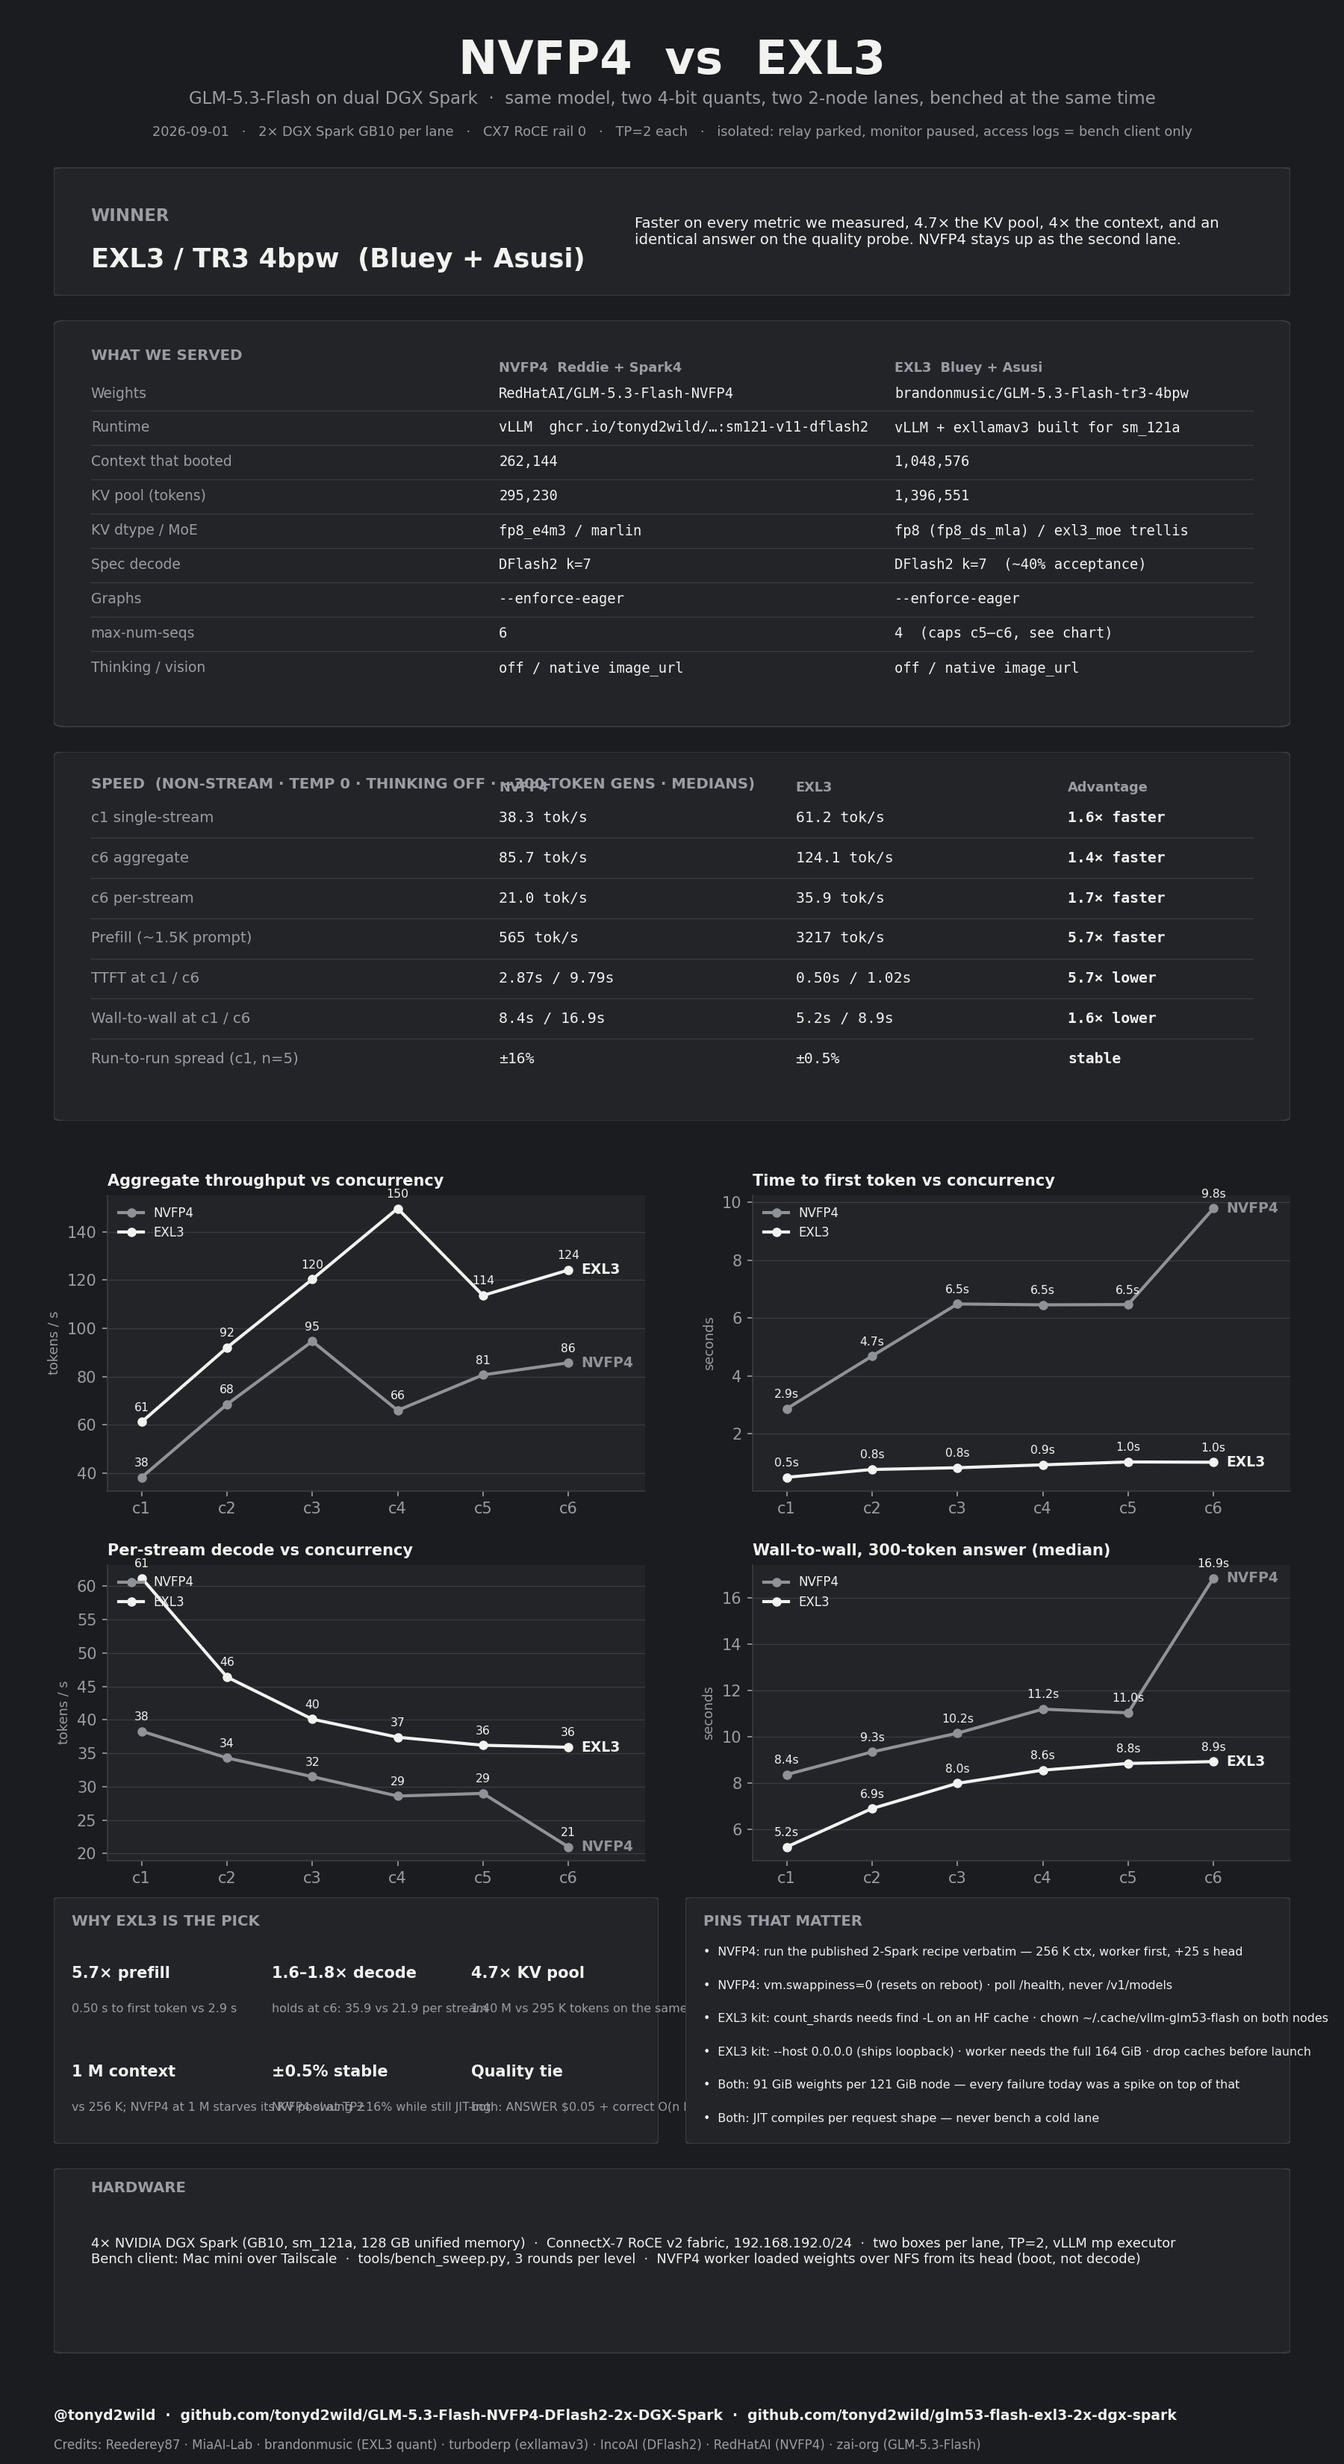
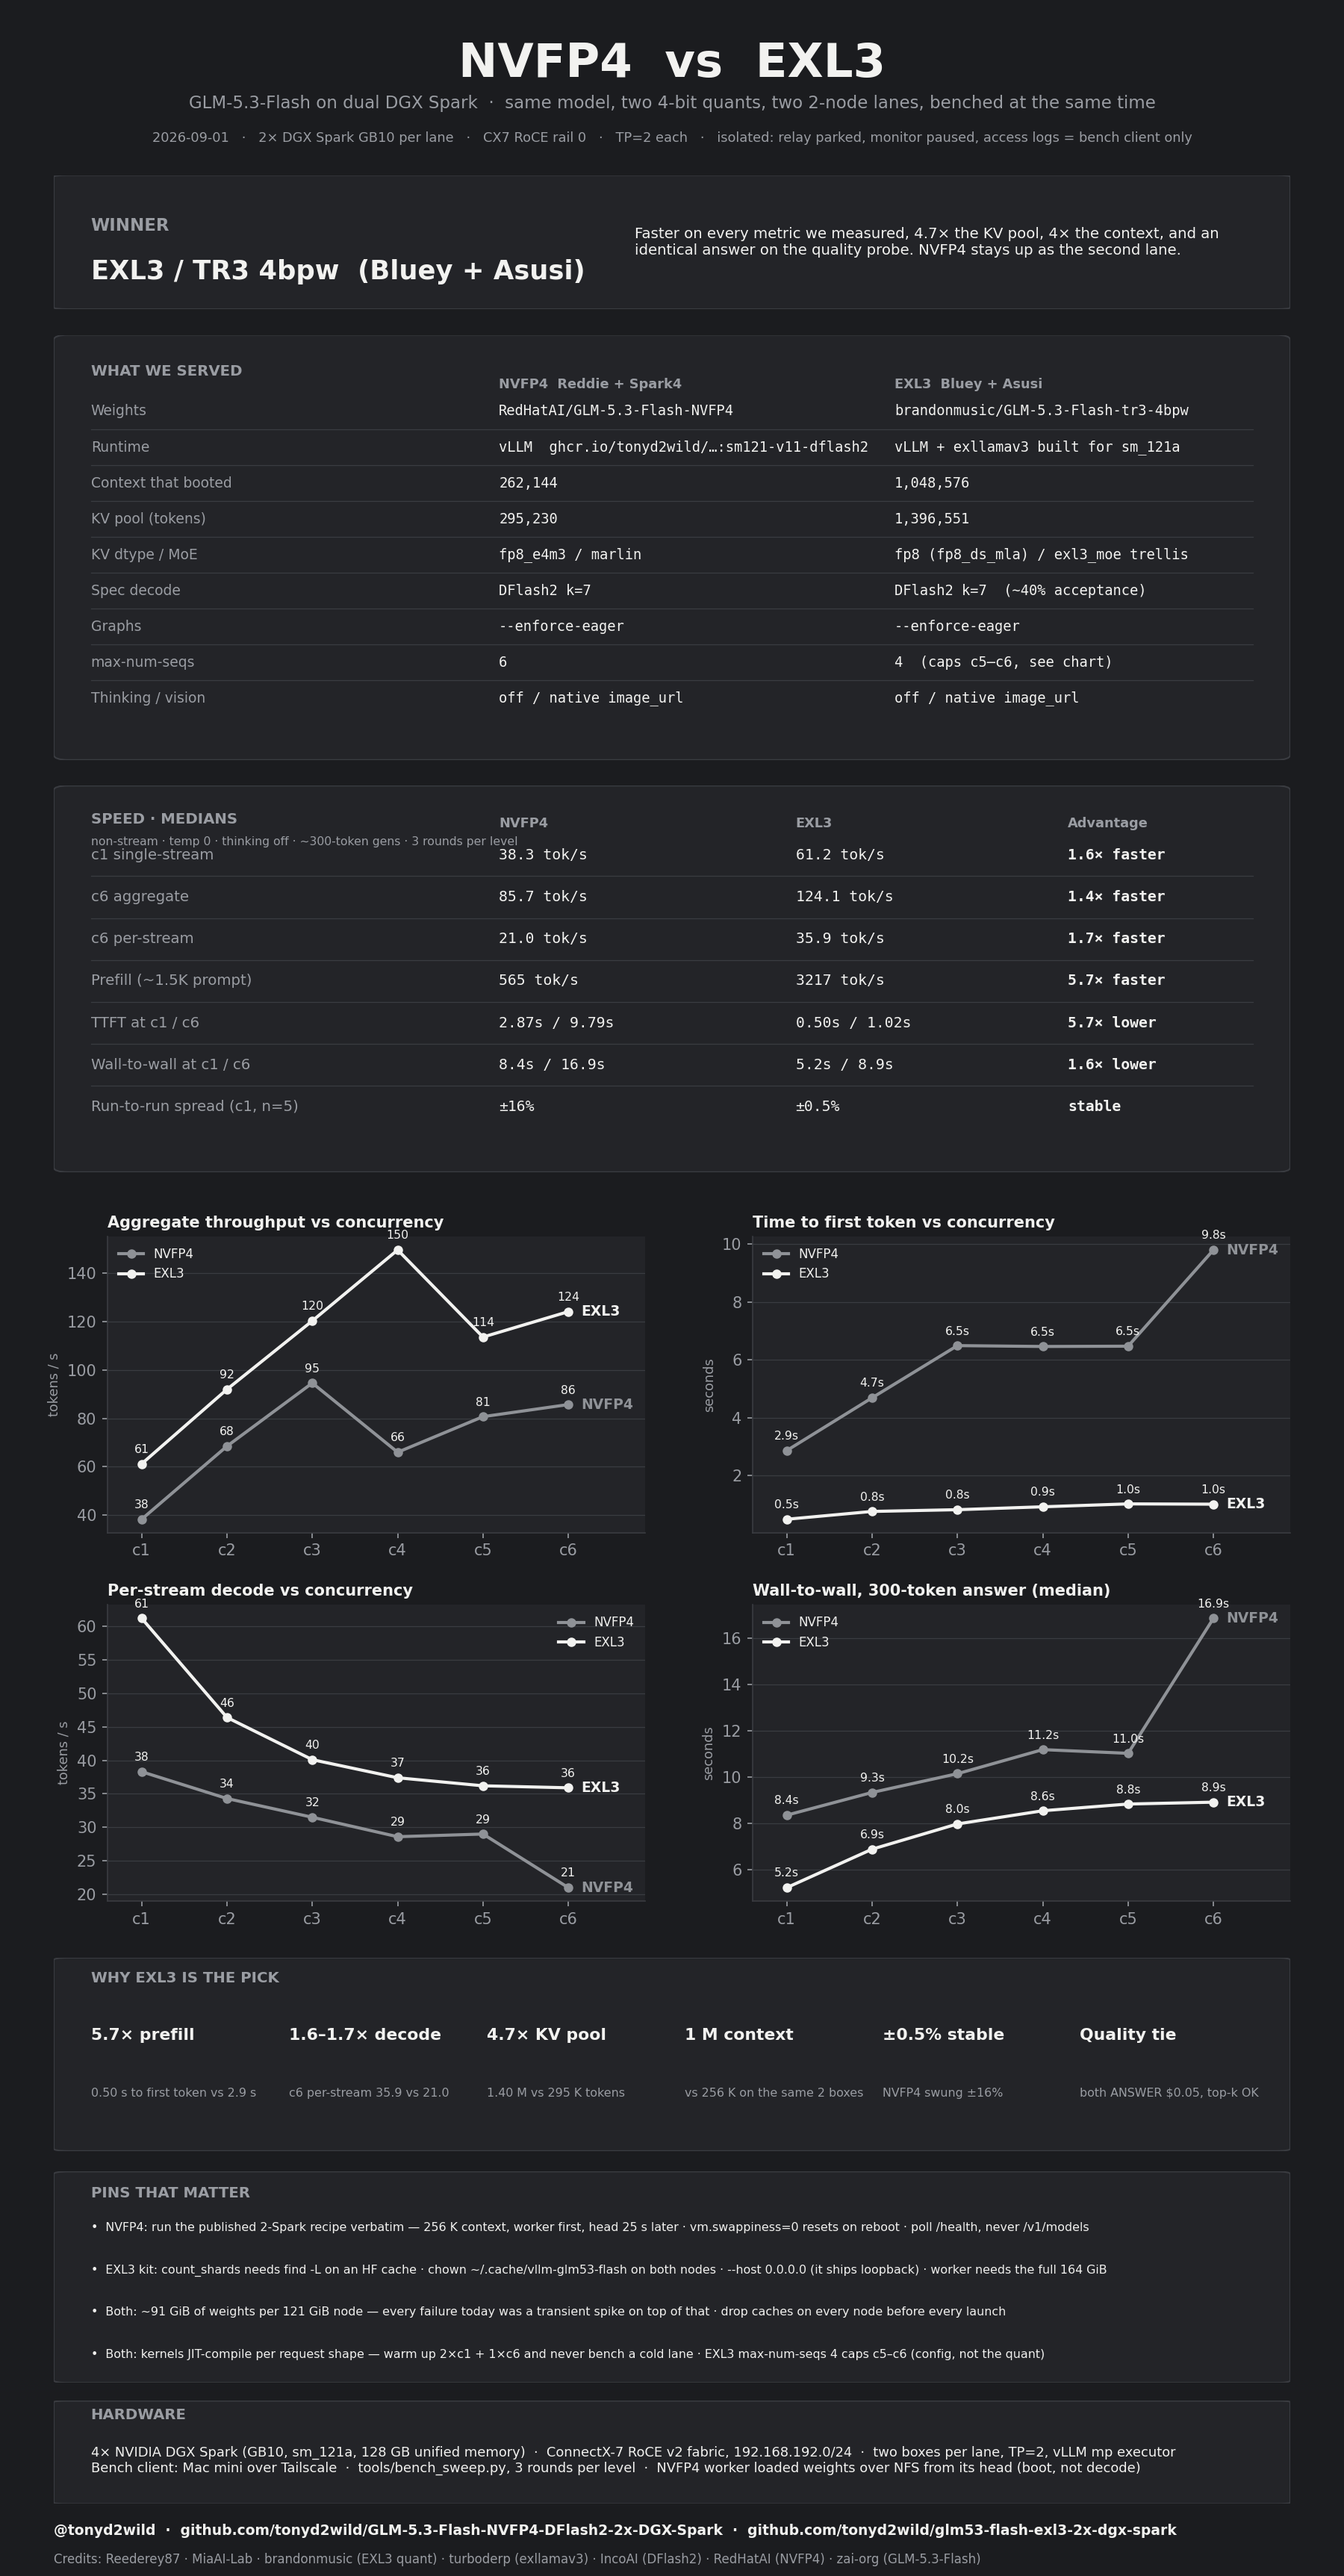
tools: make_article emits REPORT.md + BENCH.md too (one generator, four outputs); boot.json (ET times); poster layout fix
Claude-Session: https://claude.ai/code/session_0142pDPCMasdrPVASkqdsC5Y

diff --git a/tools/make_article.py b/tools/make_article.py
@@ -15,6 +15,9 @@ def q(l):
     p = f"results/quality_{l}.txt"; t = open(p).read() if os.path.exists(p) else ""
     return ("correct" if "ANSWER: $0.05" in t else ("wrong" if "ANSWER:" in t else "n/a"))
 qe, qn = q("exl3"), q("nvfp4")
+BOOT = json.load(open("results/boot.json")) if os.path.exists("results/boot.json") else {}
+def boot(l):
+    b = BOOT.get(l, {}); return (f"{b['min']} min ({b['note']})" if b.get("min") else "—")
 e1, n1, e6, n6 = er[0], nr[0], er[-1], nr[-1]
 pe = max(r["agg_tok_s"] for r in er); pe_c = [r["c"] for r in er if r["agg_tok_s"] == pe][0]
 pn = max(r["agg_tok_s"] for r in nr); pn_c = [r["c"] for r in nr if r["agg_tok_s"] == pn][0]
@@ -42,6 +45,7 @@ summary = f"""## Headline (isolated, both lanes benched simultaneously, {ts})
 | max context | {CTX['nvfp4']:,} | **{CTX['exl3']:,}** | {r(CTX['exl3'], CTX['nvfp4'], 0)} |
 | KV pool (tokens) | {KV['nvfp4']:,} | **{KV['exl3']:,}** | {r(KV['exl3'], KV['nvfp4'])} |
 | quality probe | {qn} | {qe} | {'tie' if qe == qn else 'differs'} |
+| boot: launch → /health 200 | {boot('nvfp4')} | {boot('exl3')} | |
 
 ## Sweep c1–c6 (3 rounds per level)
 | c | NVFP4 agg | per-stream | wall-to-wall | TTFT | EXL3 agg | per-stream | wall-to-wall | TTFT |
@@ -106,6 +110,7 @@ a{{color:var(--ink);text-decoration-color:var(--rule);text-underline-offset:3px}
 <tr><td>max context that booted</td><td>{CTX['nvfp4']:,}</td><td><b>{CTX['exl3']:,}</b></td><td><b>{r(CTX['exl3'], CTX['nvfp4'], 0)}</b></td></tr>
 <tr><td>KV pool (engine startup line)</td><td>{KV['nvfp4']:,} tokens</td><td><b>{KV['exl3']:,} tokens</b></td><td><b>{r(KV['exl3'], KV['nvfp4'])}</b></td></tr>
 <tr><td>quality probe (code + reasoning trap)</td><td>{qn}</td><td>{qe}</td><td>{'tie' if qe == qn else 'differs'}</td></tr>
+<tr><td>boot: launch → /health 200</td><td>{boot('nvfp4')}</td><td>{boot('exl3')}</td><td></td></tr>
 </tbody></table></div>
 
 <h2>Hardware and topology</h2>
@@ -138,6 +143,7 @@ a{{color:var(--ink);text-decoration-color:var(--rule);text-underline-offset:3px}
 <h2>Discussion</h2>
 <p><b>Where the speed comes from.</b> The largest gap is prefill, {r(e1['prefill_tok_s'], n1['prefill_tok_s'])}. EXL3's fused trellis MoE kernels prefill a 1.5K prompt in {e1['ttft_med_s']} s; the NVFP4 marlin path took {n1['ttft_med_s']} s. For agents that is the number users feel: time to first token. Decode is {r(e1['agg_tok_s'], n1['agg_tok_s'])} faster at c1 and {r(e6['per_stream_tok_s'], n6['per_stream_tok_s'])} per stream at c6.</p>
 <p><b>Context and KV.</b> EXL3 serves {CTX['exl3']:,} tokens of context with a {KV['exl3']:,}-token KV pool on the same two boxes on which the NVFP4 recipe serves {CTX['nvfp4']:,} with a {KV['nvfp4']:,}-token pool. NVFP4 at TP2 cannot be launched at 1M: an adapted launcher with <code>--max-model-len 1048576</code> produced three worker reboots on <code>NVRM: NV_ERR_NO_MEMORY</code> and a 24-minute stall until the published 256K recipe was run verbatim.</p>
+<p><b>Boot and load time.</b> Measured on this same-state run from launch command to first <code>/health</code> 200: EXL3 {boot('exl3')}; NVFP4 {boot('nvfp4')}. NVFP4's worker reads its weights over NFS from the head on this cluster (no local copy of the base on Spark4); a local copy would put it closer to the recipe's ~15 min. Both lanes JIT-compile kernels on first boot; a wiped cache adds minutes to either.</p>
 <p><b>Memory.</b> Each lane holds ~91 GiB of weights per 121 GiB node; every failure we hit was a transient spike on top of that baseline. Drop caches on every node before every launch; <code>free -g</code> under-reports on GB10.</p>
 
 <h2>What broke, and the fixes</h2>
@@ -185,5 +191,101 @@ bash tools/run_full_test.sh http://&lt;head&gt;:8000 &lt;served-model&gt; &lt;la
 </div>
 """
 os.makedirs("docs", exist_ok=True); open("docs/article.html", "w").write(html)
-print(f"article: docs/article.html ({len(html)//1024} KB) · summary: results/summary.md")
+
+# ---- REPORT.md (markdown mirror of the page, same variables) + thin BENCH.md ----
+link = os.environ.get("ARTICLE_URL", "docs/article.html")
+report = f"""# NVFP4 vs EXL3 for GLM-5.3-Flash on DGX Spark
+
+*2Wild fleet report · {ts[:10]} · tonyd2wild (deploy + bench with Kai) · published page: {link}*
+
+## TL;DR
+The same 320B MoE, GLM-5.3-Flash, in two 4-bit quantizations, on two independent 2-node DGX Spark pairs, benched
+**at the same time in the same state** (all four nodes restarted together, clocks verified under load), isolated from
+every other consumer. EXL3 / TR3 4bpw delivered {r(e1['agg_tok_s'], n1['agg_tok_s'])} the single-stream decode,
+{r(pe, pn)} the peak aggregate ({pe} at c{pe_c} vs {pn} at c{pn_c}), {r(e1['prefill_tok_s'], n1['prefill_tok_s'])} the prefill,
+{e1['ttft_med_s']} s to first token vs {n1['ttft_med_s']} s, 4× the context with {r(KV['exl3'], KV['nvfp4'])} the KV pool, and
+{'the same answer' if qe == qn else 'a different answer'} on the quality probe.
+
+{summary}
+## Hardware and topology
+Four NVIDIA DGX Spark (GB10, sm_121a, 128 GB unified memory, ~121 GB usable) on a ConnectX-7 RoCE v2 fabric,
+192.168.192.0/24, rail 0 (`enp1s0f0np0` / `rocep1s0f0`, GID 3). Reddie (.2) heads NVFP4 with Spark4 (.4);
+Bluey (.1) heads EXL3 with Asusi (.3). Both lanes TP=2 across two nodes (vLLM mp executor, NCCL over RoCE);
+they share nothing but the switch. Bench client: a Mac mini on the same tailnet.
+
+**Clock state matters on GB10.** An earlier run was thrown out: after a reboot, Reddie and Spark4 came up pinned at
+611–728 MHz SM clock under load (EXL3's nodes ran ~2,500) and NVFP4 measured 36 tok/s with a perfect 92–100 % draft
+acceptance. All four were restarted together and verified under real decode load before this run: healthy GB10s here
+settle at ~2,170–2,180 MHz at ~96 % utilization. Check `nvidia-smi --query-gpu=clocks.sm` under load after any
+Spark reboot before trusting a throughput number.
+
+## The two lanes
+**NVFP4 (reference).** The published 2-Spark recipe run verbatim: weights `RedHatAI/GLM-5.3-Flash-NVFP4`; image
+`ghcr.io/tonyd2wild/vllm-glm53-flash:sm121-v11-dflash2`; `--max-model-len 262144 --gpu-memory-utilization 0.85
+--kv-cache-memory 3 GiB --max-num-seqs 6 --max-num-batched-tokens 8192 --block-size 2304 --moe-backend marlin
+--kv-cache-dtype fp8_e4m3 --enforce-eager`; DFlash2 drafter k=7 (92–100 % draft acceptance on structured output);
+`vm.swappiness=0`; worker first, head 25 s later.
+
+**EXL3 (challenger).** Reederey87's GB10 kit (MiaAI-Lab's sibling as cross-reference) built for our fabric: weights
+`brandonmusic/GLM-5.3-Flash-tr3-4bpw` (EXL3/TR3, 4 bpw, 120 shards, ~164 GiB, ~91 GiB resident per node);
+exllamav3 compiled for `12.1a`; `--quantization exl3 --max-model-len 1000000 --gpu-memory-utilization 0.85
+--kv-cache-memory-bytes 15414698763 --max-num-seqs 4 --max-num-batched-tokens 3584 --kv-cache-dtype fp8
+--no-async-scheduling`; same DFlash2 drafter k=7. Both lanes: fp8 KV, thinking off, multimodal chat template,
+native `image_url` (a red square came back "Red" on both).
+
+## Method
+**Isolation.** Relay parked on the 3090 27B, latency dashboard paused (it sends real probe completions), the three
+Hermes supervisors that default to `glm-5.3-flash` moved to the 27B; after each run the head's access log shows chat
+POSTs from the bench client only, with counts matching the requests issued (the supervisors share the client's IP,
+so only counts prove it). **Simultaneity.** Both lanes benched in parallel; no shared GPUs, memory or NCCL group.
+**Warm-up.** 2× c1 + 1× c6 before measuring; both engines JIT-compile per request shape — never bench a cold lane.
+**Metrics.** Median tokens/s, non-streaming. c1–c6: 3 rounds of c concurrent ~300-token generations; aggregate =
+Σ tokens / round wall; per-stream = each request's tokens / its wall; wall-to-wall = end-to-end latency (median).
+TTFT at level c: c concurrent ~1.5K-token prompts with an 8-token answer. Detailed run: c1 ×5 for the spread.
+Temperature 0, `stream false`, thinking off, identical prompts. Tools in `tools/`.
+
+## Reading the curve
+EXL3 scales to {pe} tok/s at c{pe_c} and flattens — the kit's `--max-num-seqs 4` (a config cap, not the quant).
+NVFP4 (`--max-num-seqs 6`) admits all six but pays per stream: {n1['per_stream_tok_s']} → {n6['per_stream_tok_s']} tok/s,
+TTFT {n1['ttft_med_s']} → {n6['ttft_med_s']} s, wall-to-wall {n1['w2w_med_s']} → {n6['w2w_med_s']} s.
+
+## Quality
+Same prompt to both, thinking off, temp 0: `top_k_frequent` in O(n log k) + the bat-and-ball trap. EXL3 {qe}, NVFP4 {qn}.
+Published KLD: EXL3/TR3 4bpw ~0.025 (ties FP8), NVFP4 ~0.060; one probe of this difficulty
+{'did not surface a gap' if qe == qn else 'surfaced a difference'}. Harder probes are open items.
+
+## Boot and load time
+Launch command → first `/health` 200, this run: EXL3 {boot('exl3')}; NVFP4 {boot('nvfp4')}. NVFP4's worker reads its
+weights over NFS from the head on this cluster (no local copy of the base on Spark4). Both JIT-compile on first boot.
+
+## What broke, and the fixes
+- EXL3 kit: `count_shards()` uses `find -type f` (misses HF-cache symlinks) → "0 / 120 shards"; fix `find -L`.
+- EXL3 kit: worker needs the full ~164 GiB; root-owned `~/.cache/vllm-glm53-flash` kills the launch silently (chown);
+  binds `--host 127.0.0.1` (set `0.0.0.0`).
+- NVFP4: run the published recipe verbatim (1M context starves the KV pool at TP2: three NVRM OOM reboots + a stall).
+  `vm.swappiness=0` resets on reboot. Poll `/health`, not `/v1/models`.
+- Both: verify SM clocks under load after any reboot; drop caches on every node before every launch.
+
+## Reproduce
+See `docs/article.html` §Reproduce, `tools/run_full_test.sh`, and the two repos below.
+
+## Credits
+Reederey87 · MiaAI-Lab · brandonmusic (EXL3 quant, ShapleyMCG) · turboderp (exllamav3) · IncoAI (DFlash2) ·
+RedHatAI (NVFP4 weights) · zai-org (GLM-5.3-Flash) · malaiwah, drowzeys.
+Repos: github.com/tonyd2wild/GLM-5.3-Flash-NVFP4-DFlash2-2x-DGX-Spark · github.com/tonyd2wild/glm53-flash-exl3-2x-dgx-spark
+
+## Caveats
+One quality probe is not a quality study. Raise EXL3's `--max-num-seqs` and re-sweep c5–c8. Neither lane is the
+abliterated variant. Two specific quants on one specific cluster.
+"""
+open("REPORT.md", "w").write(report)
+open("BENCH.md", "w").write(f"""# Bench — EXL3 vs NVFP4 (GLM-5.3-Flash, same 4-Spark cluster)
+
+Canonical results live in `results/` (sweep JSON per lane, detailed JSON, quality answers, boot.json) and are
+rendered by `tools/make_article.py` into `REPORT.md`, `results/summary.md` and `docs/article.html`.
+Method: 2Wild house rule — throughput = median tok/s, non-stream; isolate the lane, warm it, verify clocks under load.
+
+{summary}
+""")
+print(f"article: docs/article.html ({len(html)//1024} KB) · summary: results/summary.md · REPORT.md · BENCH.md")
 print(summary.split("## Sweep")[0])
